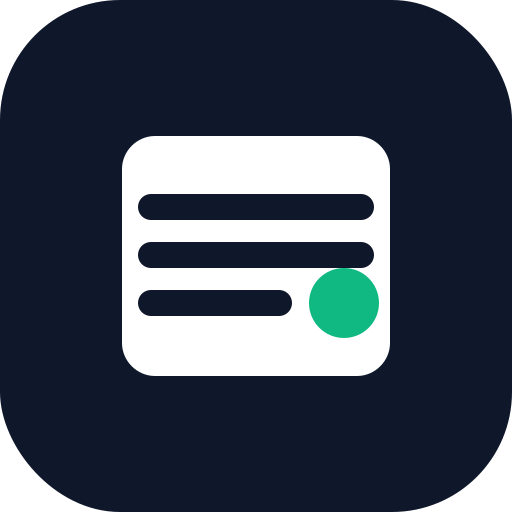
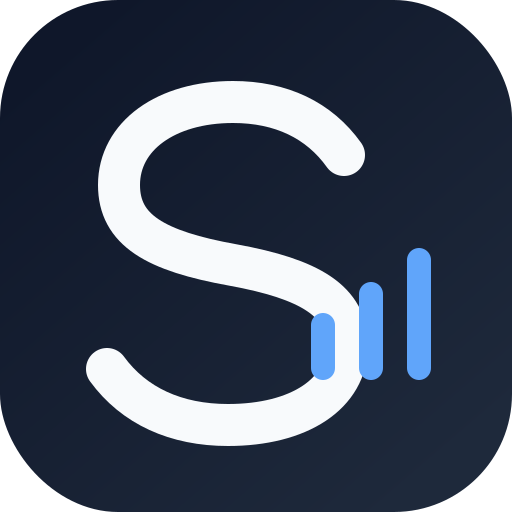
Add files via upload

diff --git a/index.html b/index.html
@@ -18,7 +18,7 @@
 <body>
   <div id="authGate" class="auth-gate hidden" aria-live="polite">
     <div class="auth-card">
-      <div class="auth-brand"><div class="brand-mark">MF</div><div><strong>Meu Financeiro</strong><span>sincronização segura</span></div></div>
+      <div class="auth-brand"><div class="brand-mark brand-mark-shaodree" aria-label="Shaodree"><svg viewBox="0 0 48 48" aria-hidden="true" focusable="false"><path class="brand-s" d="M34 14.5c-2.3-3.1-5.7-4.7-10-4.7-6.1 0-10.4 3-10.4 7.4 0 4.1 3.3 5.9 10.4 7.2 7 1.3 10.4 3.2 10.4 7.1 0 4.4-4.4 7.2-10.8 7.2-4.7 0-8.5-1.7-11-5"/><path class="brand-bars" d="M31.5 34.5v-4M36 34.5v-7M40.5 34.5v-10"/></svg></div><div><strong>Meu Financeiro</strong><span>sincronização segura</span></div></div>
       <div id="authLoginPanel">
         <p class="eyebrow">ENTRAR</p><h1>Acesse suas finanças</h1>
         <p class="muted">Use a mesma conta no iPhone e no computador para manter tudo sincronizado.</p>
@@ -47,7 +47,7 @@
   <div class="app-shell">
     <aside class="sidebar" id="sidebar">
       <div class="brand">
-        <div class="brand-mark">MF</div>
+        <div class="brand-mark brand-mark-shaodree" aria-label="Shaodree"><svg viewBox="0 0 48 48" aria-hidden="true" focusable="false"><path class="brand-s" d="M34 14.5c-2.3-3.1-5.7-4.7-10-4.7-6.1 0-10.4 3-10.4 7.4 0 4.1 3.3 5.9 10.4 7.2 7 1.3 10.4 3.2 10.4 7.1 0 4.4-4.4 7.2-10.8 7.2-4.7 0-8.5-1.7-11-5"/><path class="brand-bars" d="M31.5 34.5v-4M36 34.5v-7M40.5 34.5v-10"/></svg></div>
         <div>
           <strong>Meu Financeiro</strong>
           <span>controle pessoal</span>
@@ -55,12 +55,12 @@
       </div>
 
       <nav class="nav" aria-label="Navegação principal">
-        <button class="nav-item active" data-view="dashboard"><span>⌂</span> Visão geral</button>
-        <button class="nav-item" data-view="transactions"><span>↕</span> Lançamentos</button>
-        <button class="nav-item" data-view="recurring"><span>↻</span> Fixos e assinaturas</button>
+        <button class="nav-item active" data-view="dashboard"><span class="nav-icon" aria-hidden="true"><svg viewBox="0 0 24 24" focusable="false"><path d="M3 11.5 12 4l9 7.5"></path><path d="M5.5 10.5V20h13v-9.5"></path><path d="M9.5 20v-6h5v6"></path></svg></span> Visão geral</button>
+        <button class="nav-item" data-view="transactions"><span class="nav-icon" aria-hidden="true"><svg viewBox="0 0 24 24" focusable="false"><path d="M7 7h11"></path><path d="m15 4 3 3-3 3"></path><path d="M17 17H6"></path><path d="m9 14-3 3 3 3"></path></svg></span> Lançamentos</button>
+        <button class="nav-item" data-view="recurring"><span class="nav-icon" aria-hidden="true"><svg viewBox="0 0 24 24" focusable="false"><path d="M20 7v5h-5"></path><path d="M4 17v-5h5"></path><path d="M6.1 8.2A7 7 0 0 1 18.7 7L20 9"></path><path d="M17.9 15.8A7 7 0 0 1 5.3 17L4 15"></path></svg></span> Fixos e assinaturas</button>
         <button class="nav-item" data-view="cards"><span class="nav-icon" aria-hidden="true"><svg viewBox="0 0 24 24" focusable="false"><rect x="3" y="5" width="18" height="14" rx="2"></rect><path d="M3 10h18M7 15h4"></path></svg></span> Cartões e faturas</button>
-        <button class="nav-item" data-view="accounts"><span>◫</span> Recursos</button>
-        <button class="nav-item" data-view="settings"><span>⚙</span> Configurações</button>
+        <button class="nav-item" data-view="accounts"><span class="nav-icon" aria-hidden="true"><svg viewBox="0 0 24 24" focusable="false"><ellipse cx="9" cy="7" rx="5" ry="2.5"></ellipse><path d="M4 7v4c0 1.4 2.2 2.5 5 2.5s5-1.1 5-2.5V7"></path><path d="M4 11v4c0 1.4 2.2 2.5 5 2.5 1 0 1.9-.1 2.7-.4"></path><ellipse cx="16.5" cy="16" rx="3.5" ry="2"></ellipse><path d="M13 16v3c0 1.1 1.6 2 3.5 2s3.5-.9 3.5-2v-3"></path></svg></span> Recursos</button>
+        <button class="nav-item" data-view="settings"><span class="nav-icon" aria-hidden="true"><svg viewBox="0 0 24 24" focusable="false"><circle cx="12" cy="12" r="3"></circle><path d="M19.4 15a1.7 1.7 0 0 0 .3 1.9l.1.1-2.8 2.8-.1-.1a1.7 1.7 0 0 0-1.9-.3 1.7 1.7 0 0 0-1 1.6v.2h-4V21a1.7 1.7 0 0 0-1-1.6 1.7 1.7 0 0 0-1.9.3l-.1.1L4.2 17l.1-.1a1.7 1.7 0 0 0 .3-1.9A1.7 1.7 0 0 0 3 14H2.8v-4H3a1.7 1.7 0 0 0 1.6-1 1.7 1.7 0 0 0-.3-1.9L4.2 7 7 4.2l.1.1A1.7 1.7 0 0 0 9 4.6a1.7 1.7 0 0 0 1-1.6v-.2h4V3a1.7 1.7 0 0 0 1 1.6 1.7 1.7 0 0 0 1.9-.3l.1-.1L19.8 7l-.1.1a1.7 1.7 0 0 0-.3 1.9 1.7 1.7 0 0 0 1.6 1h.2v4H21a1.7 1.7 0 0 0-1.6 1Z"></path></svg></span> Configurações</button>
       </nav>
 
       <div class="sidebar-footer">

diff --git a/styles.css b/styles.css
@@ -195,3 +195,17 @@ html[data-theme="dark"] .account-summary,html[data-theme="dark"] .invoice-row{bo
 html[data-theme="dark"] .month-select input{color:var(--text)}
 html[data-theme="dark"] select option{background:#111827;color:#e8eef7}
 
+
+/* v2.4.1 — ícones vetoriais e identidade Shaodree */
+.brand-mark-shaodree{overflow:hidden;background:linear-gradient(145deg,#eef5ff,#dbe8f8)!important;color:#0f172a!important;box-shadow:inset 0 0 0 1px rgba(148,163,184,.22)}
+.brand-mark-shaodree svg{width:34px;height:34px;display:block;fill:none;stroke:currentColor;stroke-linecap:round;stroke-linejoin:round}
+.brand-mark-shaodree .brand-s{stroke-width:3.7}
+.brand-mark-shaodree .brand-bars{stroke:#2563eb;stroke-width:2.5}
+.auth-brand .brand-mark-shaodree{background:linear-gradient(145deg,#0f172a,#1e293b)!important;color:#fff!important;box-shadow:none}
+html[data-theme="dark"] .brand-mark-shaodree{background:linear-gradient(145deg,#e8f1fb,#cbdced)!important;color:#0f172a!important}
+html[data-theme="dark"] .auth-brand .brand-mark-shaodree{background:linear-gradient(145deg,#e8f1fb,#cbdced)!important;color:#0f172a!important}
+.nav-item{min-height:46px}
+.nav-item .nav-icon{width:22px;height:22px;display:grid;place-items:center;flex:0 0 22px}
+.nav-item .nav-icon svg{width:20px;height:20px;display:block;fill:none;stroke:currentColor;stroke-width:1.85;stroke-linecap:round;stroke-linejoin:round;overflow:visible}
+.nav-item.active .nav-icon svg{stroke-width:2}
+@media(max-width:760px){.nav-item .nav-icon{width:23px;height:23px;flex-basis:23px}.nav-item .nav-icon svg{width:21px;height:21px}.brand-mark-shaodree{width:46px;height:46px;border-radius:14px}.brand-mark-shaodree svg{width:36px;height:36px}}

diff --git a/sw.js b/sw.js
@@ -1,4 +1,4 @@
-const CACHE='meu-financeiro-v12-darkmode';
+const CACHE='meu-financeiro-v13-iconsbrand';
 const ASSETS=['./','./index.html','./styles.css','./app.js','./supabase-config.js','./manifest.webmanifest','./assets/icon.svg','./assets/icon-192.png','./assets/icon-512.png','./assets/apple-touch-icon.png'];
 
 self.addEventListener('install', event => {
